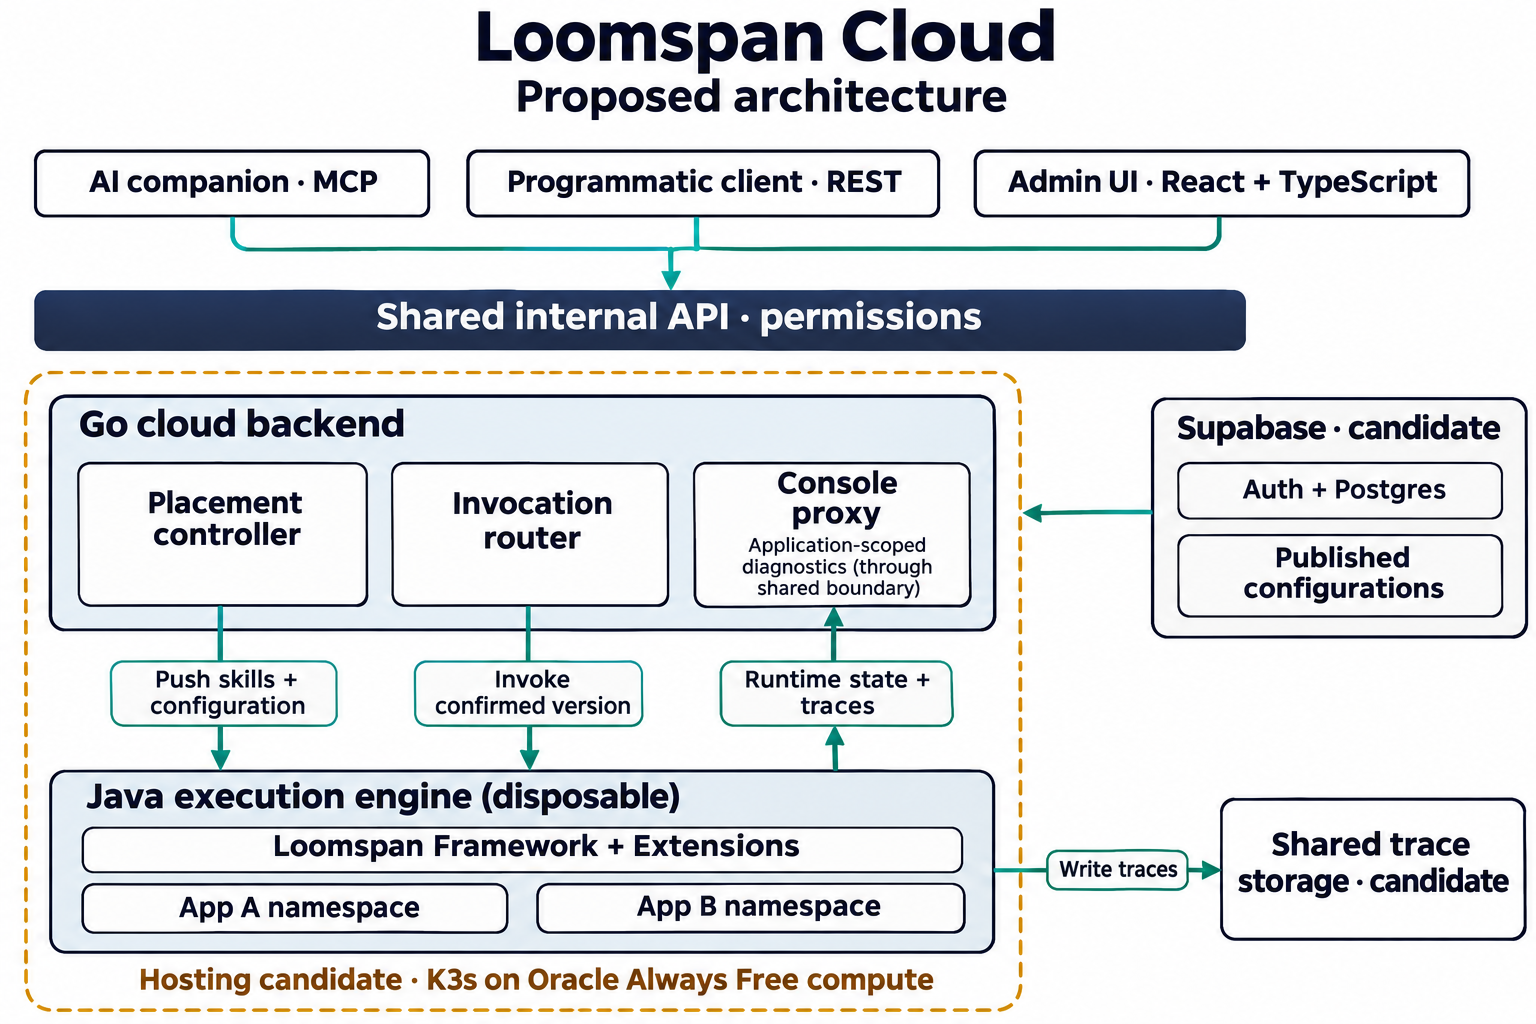
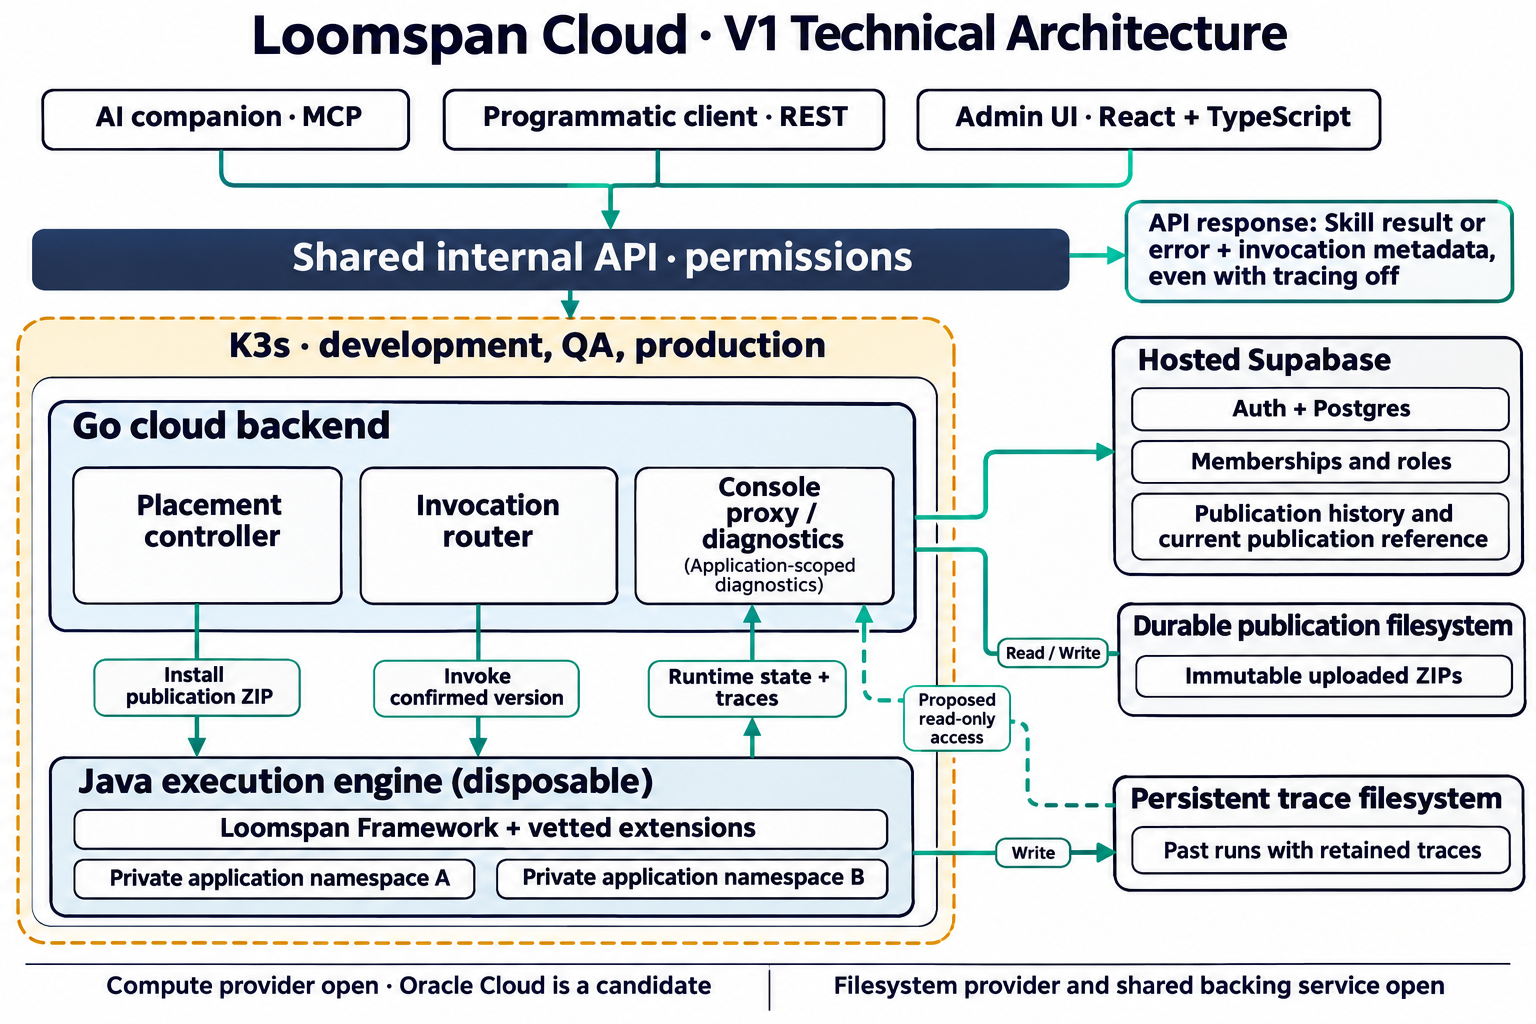
v1 Roadmap complete

diff --git a/ai/thoughts/future/roadmap.md b/ai/thoughts/future/roadmap.md
@@ -14,7 +14,7 @@ This structure supports our goal of building Loomspan Cloud as a modular system.
 
 Users create applications, submit work to them, and see how they are running. Loomspan Cloud manages where each application runs. Users and their AI companions can work entirely in terms of applications. It will use Loomspan Framework and Loomspan Extensions. We expect to organize the project into sub-projects, each responsible for one part of the cloud. The first three we envision are the execution engine, the administration UI, and the API.
 
-The [proposed architecture diagram](loomspan-cloud-architecture.png) shows how the cloud publishes applications, routes work, and returns diagnostics. The Supabase component shown as a candidate is selected for V1. Compute hosting and trace storage remain open.
+The [proposed architecture diagram](loomspan-cloud-architecture.png) shows how the cloud publishes applications, routes work, and returns diagnostics. Read its candidate labels against the V1 decisions below. We have selected K3s and hosted Supabase. The published configurations shown beside Postgres are tracked there by reference. The Go backend stores the ZIPs on a mounted filesystem, and engines write traces to a shared filesystem. The compute and filesystem providers remain open.
 
 ### Guiding principle: an AI-first cloud
 
@@ -46,7 +46,7 @@ V1 uses hosted Supabase Auth for sign-in and hosted Supabase Postgres as Loomspa
 
 If needed, we can revisit self-hosting and fork the components that require changes.
 
-One compute hosting option under consideration is to run the REST, MCP, and administration backend and the Java execution engines in a K3s cluster we operate on Oracle Cloud Always Free compute.
+Development, QA, and production will use K3s so the Go backend and Java engines use the same deployment model in every environment. Oracle Cloud Always Free compute remains a hosting option.
 
 ### Preferred languages and frameworks
 
@@ -89,15 +89,17 @@ The Go management backend and Java engine authenticate each other with mutual TL
 
 An execution engine is an internal Loomspan Cloud component that can run many tenants’ namespaces together. Each cloud application maps to a Framework namespace. We will build it in Java so it can use Loomspan Framework directly. We expect to embed the framework in an engine tailored to running inside Loomspan Cloud.
 
-The Java execution engine will be disposable. If we use Kubernetes, we prefer to start with K3s to keep the initial cluster simple to operate. The hosting choice and all integration points between Loomspan Cloud and Kubernetes remain open.
+The Java execution engine runs in a disposable K3s pod.
 
 ### Cloud-managed engine lifecycle
 
-When an owner publishes an update, the current version keeps serving until Cloud confirms the new version is ready. New invocations then use the new version. Invocations already running finish on the version they started with. If the update fails, the current version stays live and the owner can see that the publication failed.
+Framework handles cutover within a running engine. It prepares the replacement while the current generation serves. After a successful publish, new invocations use the new generation. Already admitted invocations finish with their captured generations, including for reachable child skills. If preparation or publication fails, the current version stays live and Cloud reports the failure to the owner.
 
-Loomspan Cloud holds each application's current published skills and runtime configuration independently of the engines and their cluster. The cloud owns the policy for how namespaces run, decides which engines should host each namespace, and tracks which namespaces are actually installed on each engine.
+The Go backend keeps the original uploaded ZIP on a durable mounted filesystem. Each publication refers to an immutable ZIP containing the skills and runtime configuration. Supabase Postgres holds the application's publication history, the filesystem reference and status for each publication, and the identity of the current publication. This keeps the pack available for download and engine recovery independently of the engine cluster. Storing the original ZIP preserves the exact download for promotion between applications and keeps pack size and history from driving Supabase database usage.
 
-The cloud requests engine capacity and watches for availability. A new engine starts ready to receive configuration. The cloud pushes the complete publication for each assigned namespace through the engine's internal API and confirms it is available there before directing work to it. If an engine or cluster is lost, the cloud can repeat that process on a replacement using the saved publications.
+The cloud owns the policy for how namespaces run, decides which engines should host each namespace, and tracks which namespaces are actually installed on each engine.
+
+The cloud requests engine capacity and watches for availability. A new engine starts ready to receive configuration. Go reads the ZIP from its publication mount and sends it through the engine's internal API. The Java wrapper adapts the pack to Framework's prepare and publish operations. The placement controller uses this same path to restore a saved publication after engine or cluster loss and confirms the installed version before routing work.
 
 Framework's `SkillReloader.prepare` accepts an optional, opaque `publicationVersion` for a complete namespace update. Cloud will assign one durable value to each complete publication of skills and runtime configuration and reuse it when installing that publication on another engine. After a successful publish, the engine's instance observation endpoint reports the host-supplied version alongside the active Framework `generationId`, which is local to the engine process.
 
@@ -107,9 +109,9 @@ For invocation, the Java wrapper can use `SkillTemplate` with a namespace-qualif
 
 Start with one execution engine and two responsibilities in the Go backend. A controller compares the cloud's intended namespace placements with the publications each engine instance has confirmed. It pushes missing publications and treats a replacement instance as empty, including when the Java process restarts within the same pod. A routing function sends an authorized invocation only to an available instance that has confirmed the requested application version.
 
-If we use K3s, one candidate is a Kubernetes Deployment to maintain the engine pool, with the controller watching pods for availability. K3s ingress could direct public requests to the Go backend through a Kubernetes Service. The backend would then select the specific engine for the application. The integration details remain open.
+One candidate is a Kubernetes Deployment to maintain the engine pool, with the controller watching pods for availability. K3s ingress could direct public requests to the Go backend through a Kubernetes Service. The backend would then select the specific engine for the application. The integration details remain open.
 
-If we use K3s, an ingress NetworkPolicy on the engine pods will restrict pod-to-pod access to the engine API port to Go management backend pods in the management namespace.
+An ingress NetworkPolicy on the engine pods will restrict pod-to-pod access to the engine API port to Go management backend pods in the management namespace.
 
 On K3s, cert-manager will provision and rotate the mTLS certificates for communication between the Go management backend and the Java engines. The Go backend will use one client credential. All Java engine pods, including new and replacement pods, will use one shared server credential.
 
@@ -124,11 +126,13 @@ On K3s, cert-manager will provision and rotate the mTLS certificates for communi
 
 When tracing is enabled, Cloud retains execution traces on a durable volume. Users and their companions can inspect traces for their authorized applications until the traces expire, even if the engine is lost or the cluster is replaced. The retention period is still to be determined.
 
-A shared filesystem is one candidate for the volume. The storage backend, how multiple engines write to it concurrently, and how a replacement cluster regains access remain open.
+Each engine pod mounts a shared persistent filesystem and writes traces there. A completed durable write must survive loss of the writing pod. Storage selection must also support access from a replacement cluster. The provider, concurrent write layout, and retention period are component design decisions. Whether publications and traces use the same storage service remains open.
+
+V1 Cloud run history covers invocations with a retained trace. Users and their companions can look up those runs and inspect their traces through Console or MCP with the user's application permissions. One proposed read path gives Go diagnostics read-only access to the trace filesystem.
 
 ### Tenant isolation and shared capacity
 
-Application owners can publish skills and runtime configuration. Loomspan Cloud controls which executable extensions are installed in the shared engine.
+Application owners can publish skills and runtime configuration. Cloud enables only Loomspan extensions it has vetted and configured for the shared engine. Vetting an extension includes verifying that it keeps each tenant's supplied configuration, credentials, and data isolated when multiple applications use it in the same JVM.
 
 An application’s complete skill pack and runtime configuration travel together and are published as one version. References within the pack to the application itself are relative to the destination application, including in its configuration. Explicit references to shared executors and other external dependencies keep their targets.
 
@@ -198,7 +202,9 @@ The API will let users submit work and will likely also provide status and metri
 
 ### Synchronous invocation
 
-In the first release, clients will invoke an application synchronously and receive its result or reported error on the same request. If the API cannot return an execution result, it will distinguish two outcomes.
+In the first release, clients invoke an application synchronously. The API includes invocation metadata with every skill result and every reported skill error, even when tracing is disabled.
+
+If the API cannot return an execution result, it will distinguish two outcomes.
 
 - **Rejected before execution** means the cloud can confirm that the skill never started. If no engine is ready to serve the application's requested version, Cloud promptly reports that the application is temporarily unavailable. The caller can safely retry that invocation.
 - **Outcome unknown** means the cloud dispatched the invocation and lost contact with the engine before it could confirm the result. The skill may have completed or produced side effects. Retrying could repeat them.

diff --git a/ai/thoughts/future/v1-prototype-brief.md b/ai/thoughts/future/v1-prototype-brief.md
@@ -26,11 +26,11 @@ The companion should have access to Framework's skill definitions and authoring 
 
 ## Try a published skill
 
-The user can select a published skill in a playground, supply input, invoke it, and see the result or error. The companion can invoke the skill through MCP with the same permissions. This lets the user exercise an application before connecting an external client.
+The user can select a published skill in a playground, supply input, invoke it, and see the result or error. Every skill result and reported skill error includes invocation metadata, even when tracing is disabled. The companion can invoke the skill through MCP with the same permissions. This lets the user exercise an application before connecting an external client.
 
 ## Inspect the application and its runs
 
-Through the cloud Console UI or through MCP, the user or companion can inspect published skills and their version, see active sessions, find previous runs, and examine a run's trace when tracing is enabled. Retained traces remain accessible to authorized users after engine replacement. The retention period is open. Longer-term error summaries, timing statistics, and dashboards are possible additions.
+Through the cloud Console UI or through MCP, the user or companion can inspect published skills and their version and see active sessions. Cloud run history covers invocations with a retained trace. Authorized users and their companions can look up those runs and inspect their traces, including after engine replacement. The retention period is open. Longer-term error summaries, timing statistics, and dashboards are possible additions.
 
 ## Proposed V1 demonstration
 
